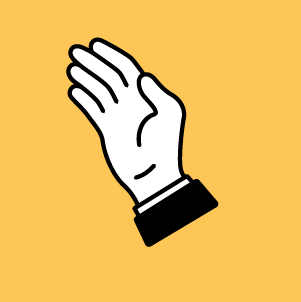
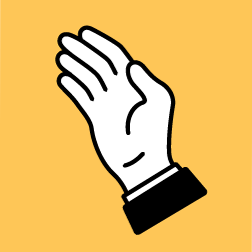
ver 3
image fitting
add randomize animation
add background and favicon
absolute center of result, still bug on smaller screen size

Changed region(s): [[0.1944, 0.0833, 0.8333, 0.9444], [0.9722, 0.8611, 1.0, 1.0], [0.0, 0.0, 0.0278, 0.1111]]

diff --git a/script.js b/script.js
@@ -24,23 +24,47 @@ function result(compImg, user) {
 
 }
 
+function getRandom() { //animation to randomize image from computer
+    const imgComp = document.querySelector('.comp-img');
+    const img = ['rock', 'paper', 'scissor'];
+    let i = 0;
+    const start = new Date().getTime();
+    setInterval (function() {
+        if (new Date().getTime() - start > 1000 ) { //max time for randomize, 1000ms
+            clearInterval;
+            return;
+        }
+        imgComp.setAttribute('src',`img/${img[i++]}.png`);
+        if( i == img.length) i = 0; //looping between all images
+    }, 100) //duration of each images, 100ms
+}
+
 const userImages = document.querySelectorAll('.user img');
 userImages.forEach(function(userIMG) {
     userIMG.addEventListener('click', function() {
         const getCompIMG = compImg(); //get randomize image by compImg
         const getUserIMG = userIMG.className; //get user image by class name
-    
-        const imgComp = document.querySelector('.comp-img');
-        imgComp.setAttribute('src',`img/${getCompIMG}.png`);
         const getResult = result(getCompIMG,getUserIMG)
-        console.log(`comp: ${getCompIMG}
-        user:${getUserIMG}
-        result ${getResult}`)
-        const resultBox = document.querySelector('.result')
-        resultBox.innerHTML = getResult
+        
+        getRandom();
 
+        setTimeout(function() { //this function is called after randomize
+            const imgComp = document.querySelector('.comp-img');
+            imgComp.setAttribute('src',`img/${getCompIMG}.png`);
+            
+
+            const resultBox = document.querySelector('.result')
+            resultBox.innerHTML = getResult;
+
+        }, 1000); //waiting time 1000ms after getRandom start
+        
+        // console.log(`comp: ${getCompIMG}
+        // user:${getUserIMG}
+        // result ${getResult}`)
     });
 });
+
+
 
 // const userRock = document.querySelector('.rock');
 // userRock.addEventListener('click', function(){

diff --git a/style.css b/style.css
@@ -1,6 +1,7 @@
 body {
     text-align: center;
     font-family: Roboto, sans-serif;
+    background-image: url(img/bg.jpg);
 }
 img {
     max-width: 120px;
@@ -8,7 +9,6 @@ img {
     border-radius: 50%;
     overflow: hidden;
     margin: auto;
-    
     display: block;
 }
 .comp-img {
@@ -16,16 +16,21 @@ img {
 }
 img:hover {
     transform: scale(1.02);
-    filter: contrast(0.8);
+    filter: contrast(2);
+}
+.container{
+    position: relative;
 }
 
 .comp {
     border: 1px solid red;
     border-radius: 20px 20px 0px 0px;
-    background-color: crimson;
+    background-color: rgb(200,8,21);
     max-width: 500px;
     padding-bottom: 50px;
     padding-top: 20px;
+    position: relative;
+    
 }
 .result {
     border: 1px solid grey;
@@ -33,18 +38,18 @@ img:hover {
     background-color: lightgrey;
     width: 150px;
     height: 60px;
-    
-    z-index: 10;
+    position: absolute;
+    z-index: 1;
     font-size: 30px;
     display: flex;
     justify-content: center;
     align-items: center;
     margin: auto;
-    top: 0;
+    top: 100px;
     bottom: 0;
     left: 0;
     right: 0;
-    position: relative;
+    
 }
 .user {
     border: 1px solid blue;
@@ -53,8 +58,11 @@ img:hover {
     max-width: 500px;
     padding-top: 50px;
     padding-bottom: 20px;
+    position: relative;
     
 }
+    
+
 ul, li {
     list-style: none;
     display: inline-block;

diff --git a/index.html b/index.html
@@ -4,7 +4,11 @@
     <!-- Required meta tags -->
     <meta charset="utf-8">
     <meta name="viewport" content="width=device-width, initial-scale=1, shrink-to-fit=no">
+    <link rel="icon" href="img/favicon1.png" type="image/x-icon"/>
+    <link rel="shortcut icon" href="img/favicon1.png" type="image/x-icon"/>
     <link href="https://fonts.googleapis.com/css?family=Roboto" rel="stylesheet">
+
+    
     <!-- Bootstrap CSS -->
     <link rel="stylesheet" href="https://stackpath.bootstrapcdn.com/bootstrap/4.5.0/css/bootstrap.min.css" integrity="sha384-9aIt2nRpC12Uk9gS9baDl411NQApFmC26EwAOH8WgZl5MYYxFfc+NcPb1dKGj7Sk" crossorigin="anonymous">
     <link rel="stylesheet" href="style.css">
@@ -18,7 +22,7 @@
     </header>
     <main>
         <div class="container">
-          <h1>Rock, Paper, Scissor Game</h1>
+          <h1 style="color: white;">Rock, Paper, Scissor Game</h1>
             <div class="container comp" style="margin-top: 50px;">
                 <img src="img/scissor.png" alt="" class="comp-img">
             </div>
